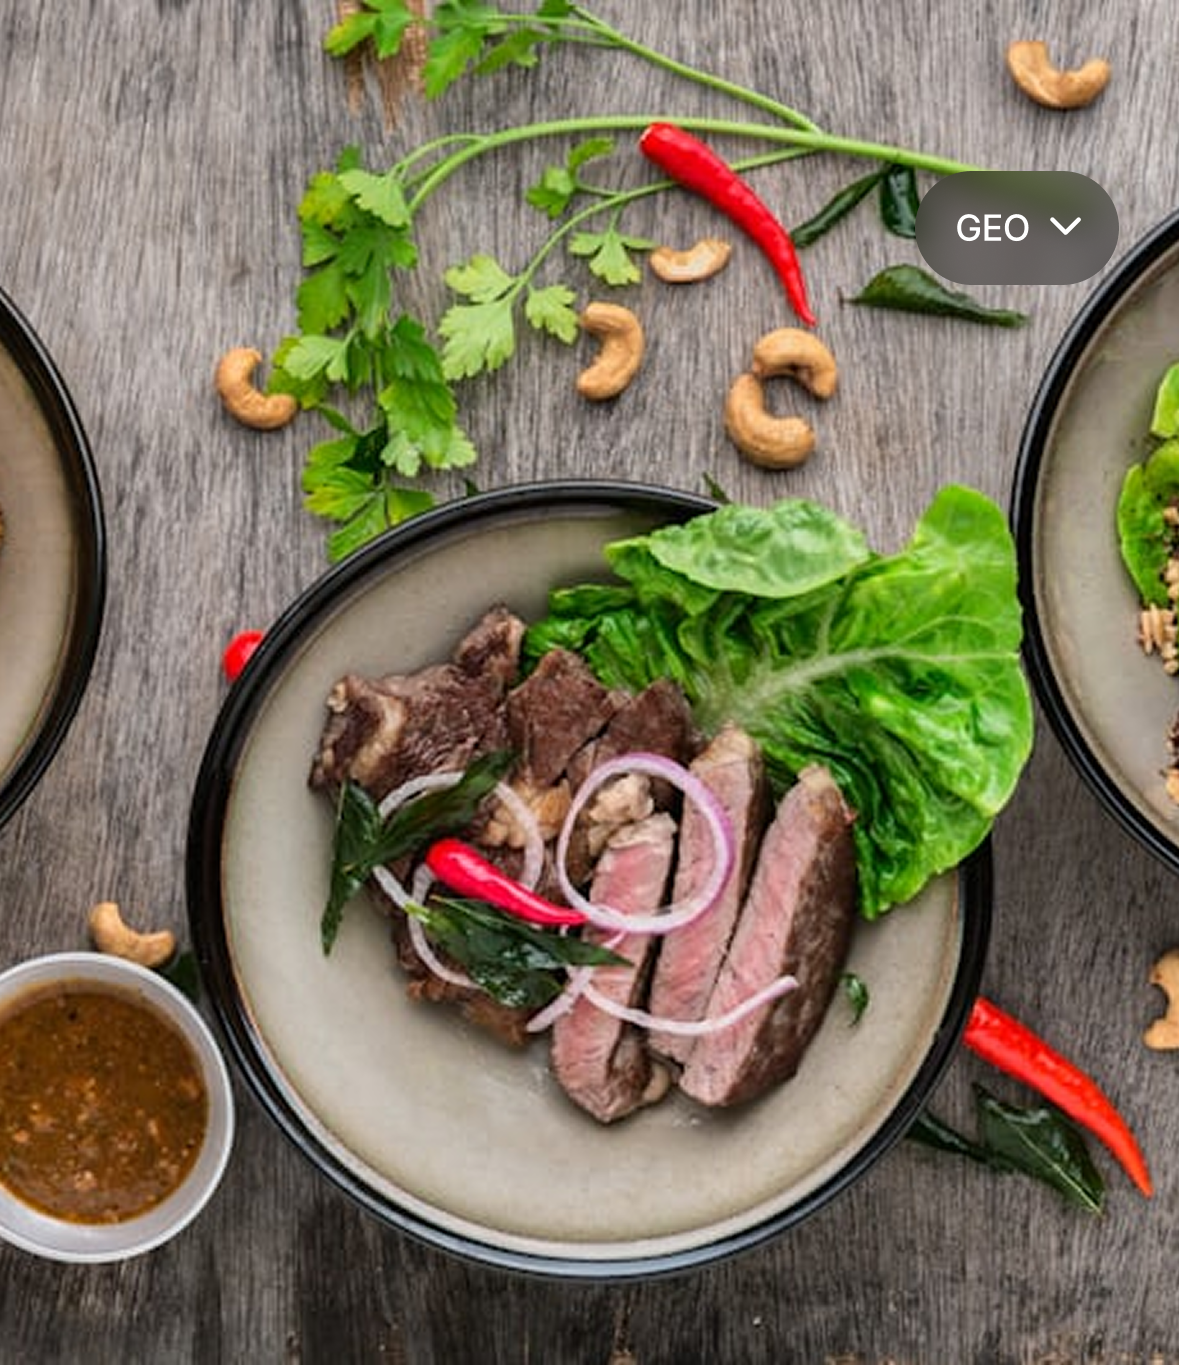
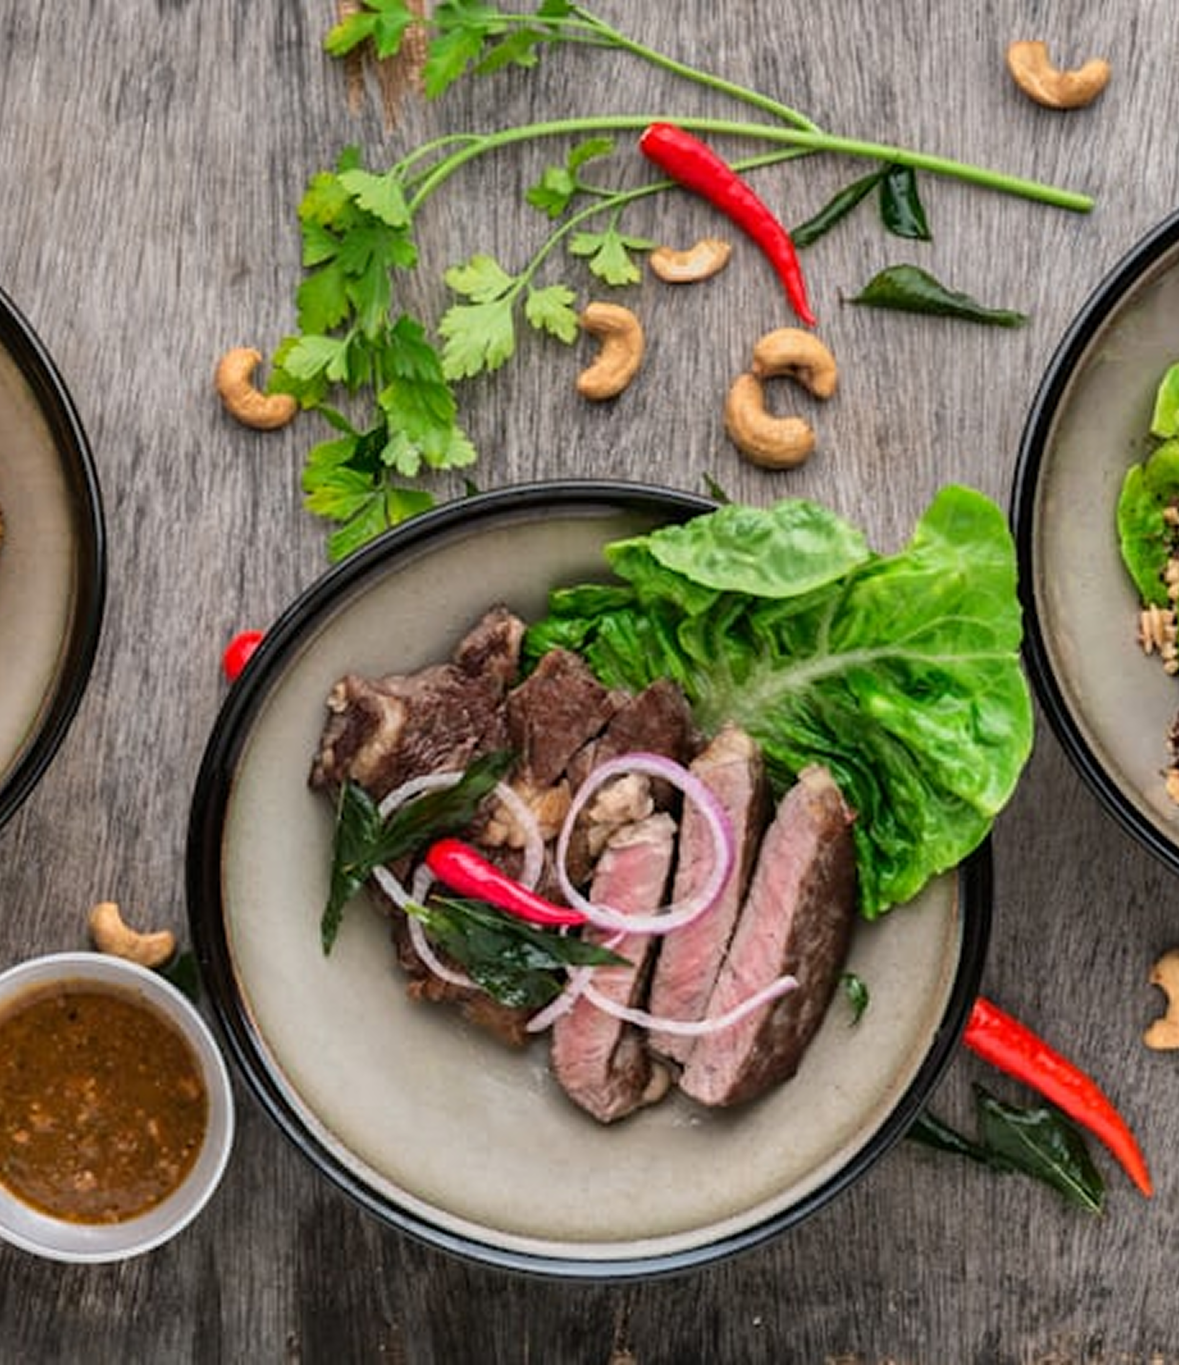
added LanguageSwitcher (#12)

Changed region(s): [[0.7634, 0.1231, 0.9466, 0.2154]]

diff --git a/src/components/ui/LanguageSwitcher.tsx b/src/components/ui/LanguageSwitcher.tsx
@@ -1,0 +1,112 @@
+import React, { useState } from "react";
+import {
+  TouchableOpacity,
+  Text,
+  StyleSheet,
+  View,
+  Modal,
+  Pressable,
+} from "react-native";
+import { useTranslation } from "react-i18next";
+import { setLanguage } from "../../i18n";
+import { colors, textColors } from "../../theme/colors";
+import ChevronIcon from "../../assets/icons/ChevronIcon";
+import { borderRadius, spacing, typography } from "../../theme";
+
+const styles = StyleSheet.create({
+  container: {
+    paddingVertical: spacing.sm,
+    width: 68,
+    borderRadius: 235.29,
+    backgroundColor: colors.black + "66",
+    justifyContent: "center",
+    alignItems: "center",
+
+    borderWidth: 1,
+    borderColor: "transparent",
+  },
+  containerOpen: {
+    borderColor: colors.black,
+  },
+  content: {
+    flexDirection: "row",
+    alignItems: "center",
+  },
+  text: {
+    color: colors.white,
+    fontSize: typography.buttonSm.fontSize,
+    fontWeight: typography.buttonSm.fontWeight,
+  },
+  dropdown: {
+    position: "absolute",
+    top: 40,
+    left: 0,
+    width: 68,
+    backgroundColor: colors.white,
+    padding: spacing.xs,
+    borderRadius: borderRadius.xl,
+    borderWidth: 1,
+    borderColor: colors.light,
+    zIndex: 10,
+  },
+  dropdownOption: {
+    paddingVertical: spacing.sm,
+    paddingHorizontal: spacing.xs,
+    alignItems: "center",
+    justifyContent: "center",
+    borderRadius: borderRadius.lg,
+  },
+  dropdownText: {
+    color: colors.black,
+    fontSize: typography.buttonSm.fontSize,
+    fontWeight: typography.buttonSm.fontWeight,
+  },
+  selectedOption: {
+    backgroundColor: colors.light,
+  },
+});
+
+export const LanguageSwitcher = () => {
+  const { i18n } = useTranslation();
+  const isGeorgian = i18n.language === "ka";
+  const [dropdownOpen, setDropdownOpen] = useState(false);
+
+  const handleSelect = (lang: "ka" | "en") => {
+    setLanguage(lang);
+    setDropdownOpen(false);
+  };
+
+  return (
+    <View style={{ position: "relative", width: 68 }}>
+      <TouchableOpacity
+        style={[styles.container, dropdownOpen && styles.containerOpen]}
+        onPress={() => setDropdownOpen(!dropdownOpen)}
+        activeOpacity={0.8}
+      >
+        <View style={styles.content}>
+          <Text style={styles.text}>{isGeorgian ? "GEO" : "ENG"}</Text>
+          <ChevronIcon />
+        </View>
+      </TouchableOpacity>
+      {dropdownOpen && (
+        <View style={styles.dropdown}>
+          <Pressable
+            style={[styles.dropdownOption, isGeorgian && styles.selectedOption]}
+            onPress={() => handleSelect("ka")}
+          >
+            <Text style={[styles.dropdownText]}>GEO</Text>
+          </Pressable>
+          <Pressable
+            style={[
+              styles.dropdownOption,
+              !isGeorgian && styles.selectedOption,
+            ]}
+            onPress={() => handleSelect("en")}
+          >
+            <Text style={[styles.dropdownText]}>ENG</Text>
+          </Pressable>
+        </View>
+      )}
+    </View>
+  );
+};

diff --git a/src/screens/onboarding/OnboardingScreen.tsx b/src/screens/onboarding/OnboardingScreen.tsx
@@ -16,6 +16,7 @@ import { colors, typography, spacing, borderRadius } from "../../theme";
 import { Button } from "../../components/Button";
 import { textColors } from "../../theme/colors";
 import { useTranslation } from "react-i18next";
+import { LanguageSwitcher } from "../../components/ui/LanguageSwitcher";
 
 const { width } = Dimensions.get("window");
 
@@ -70,6 +71,10 @@ export default function OnboardingScreen() {
 
   return (
     <View style={styles.container}>
+      {/* Language Switcher */}
+      <View style={styles.languageSwitcherContainer}>
+        <LanguageSwitcher />
+      </View>
       {/* Slides */}
       <FlatList
         ref={flatListRef}
@@ -105,23 +110,31 @@ export default function OnboardingScreen() {
 
       {/* Button */}
       <View style={styles.buttonRow}>
-        <View style={styles.buttonLeft}>
+        {isLastSlide ? (
           <Button
-            title={t("onboarding.skip")}
-            onPress={handleSkip}
-            variant="secondary"
-            fullWidth
-          />
-        </View>
-        <View style={styles.buttonRight}>
-          <Button
-            title={
-              isLastSlide ? t("onboarding.getStarted") : t("onboarding.next")
-            }
+            title={t("onboarding.getStarted")}
             onPress={handleNext}
             fullWidth
           />
-        </View>
+        ) : (
+          <>
+            <View style={styles.buttonLeft}>
+              <Button
+                title={t("onboarding.skip")}
+                onPress={handleSkip}
+                variant="secondary"
+                fullWidth
+              />
+            </View>
+            <View style={styles.buttonRight}>
+              <Button
+                title={t("onboarding.next")}
+                onPress={handleNext}
+                fullWidth
+              />
+            </View>
+          </>
+        )}
       </View>
     </View>
   );
@@ -131,6 +144,12 @@ const styles = StyleSheet.create({
   container: {
     flex: 1,
     backgroundColor: colors.white,
+  },
+  languageSwitcherContainer: {
+    position: "absolute",
+    top: 60,
+    right: 24,
+    zIndex: 100,
   },
   buttonLeft: {
     flex: 1,

diff --git a/src/screens/auth/LoginScreen.tsx b/src/screens/auth/LoginScreen.tsx
@@ -16,6 +16,7 @@ import { colors, typography, spacing, borderRadius } from "../../theme";
 import { textColors } from "../../theme/colors";
 import FbIcon from "../../assets/icons/FbIcon";
 import AppleIcon from "../../assets/icons/AppleIcon";
+import { LanguageSwitcher } from "../../components/ui/LanguageSwitcher";
 
 export default function LoginScreen({ navigation }: any) {
   const { t } = useTranslation();
@@ -57,6 +58,12 @@ export default function LoginScreen({ navigation }: any) {
       behavior={Platform.OS === "ios" ? "padding" : "height"}
     >
       <ScrollView contentContainerStyle={styles.container}>
+        {/* Language Switcher */}
+        <View style={styles.languageWrapper}>
+          <LanguageSwitcher />
+        </View>
+        {/* Spacer below language switcher */}
+        <View style={{ marginBottom: spacing.lg }} />
         {/* Title */}
         <Text style={styles.title}>{t("auth.login")}</Text>
         <Text style={styles.subtitle}>{t("auth.loginSubtitle")}</Text>
@@ -156,9 +163,13 @@ const styles = StyleSheet.create({
     justifyContent: "center",
     backgroundColor: colors.white,
   },
+  languageWrapper: {
+    alignItems: "flex-end",
+    marginTop: spacing.xxxl,
+    marginBottom: 0,
+  },
   title: {
     ...typography.h1,
-    marginTop: spacing.xxxl,
     marginBottom: spacing.xs,
     textAlign: "center",
   },

diff --git a/src/assets/icons/ChevronIcon.tsx b/src/assets/icons/ChevronIcon.tsx
@@ -1,0 +1,24 @@
+import * as React from "react";
+import Svg, { Path } from "react-native-svg";
+
+function ChevronIcon() {
+  return (
+    <Svg
+      width={18}
+      height={18}
+      viewBox="0 0 18 18"
+      fill="none"
+      xmlns="http://www.w3.org/2000/svg"
+    >
+      <Path
+        d="M4.375 6.563l4.375 4.375 4.375-4.376"
+        stroke="#fff"
+        strokeWidth={1.45833}
+        strokeLinecap="round"
+        strokeLinejoin="round"
+      />
+    </Svg>
+  );
+}
+
+export default ChevronIcon;

diff --git a/src/theme/colors.ts b/src/theme/colors.ts
@@ -1,3 +1,5 @@
+import { LanguageSwitcher } from "../components/ui/LanguageSwitcher";
+
 export const colors = {
   // Primary
   primary: "#EC003F", // Main brand red
@@ -24,6 +26,7 @@ export const colors = {
   gray500: "#667084", // Secondary text (default)
   gray900: "#0E162B", // Ingredient text
   placeholder: "#717182", // Placeholder text
+  languageSwitcher: "#CAD5E2", // Tab text
   // Error
   error: "#E7000B", // Error messages, indicators
   rose: "#C70036", // Error states, accents

diff --git a/src/components/ui/TextInput.tsx b/src/components/ui/TextInput.tsx
@@ -96,6 +96,8 @@ const styles = StyleSheet.create({
     ...typography.textBase,
     color: textColors.primary,
     textAlignVertical: "center",
+    borderWidth: 1,
+    borderColor: "transparent",
   },
   icon: {
     marginHorizontal: spacing.xs,
